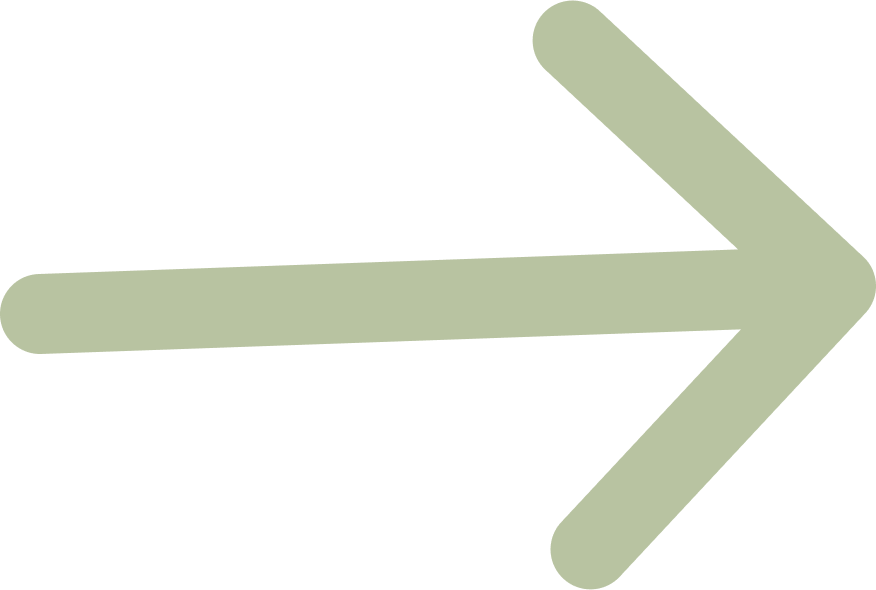
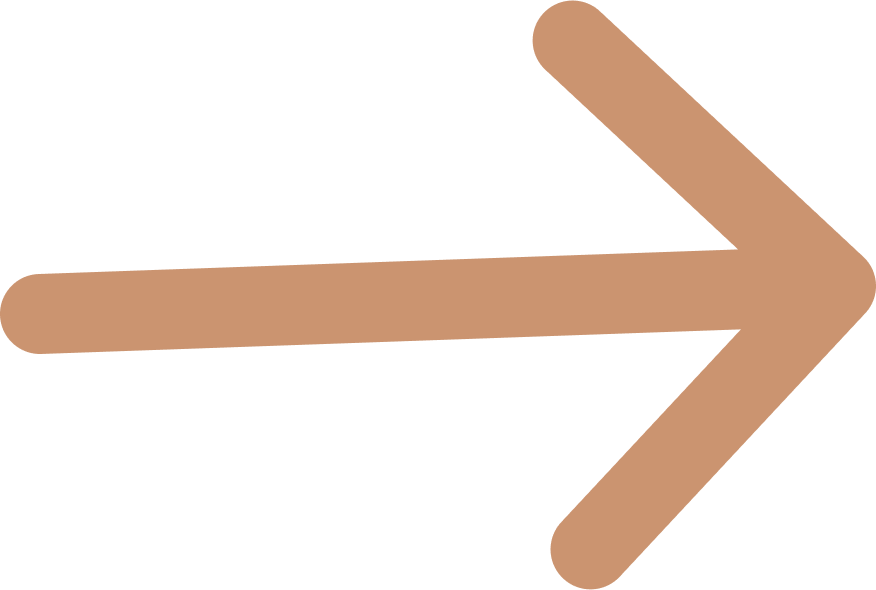
kleur pijl en tekst uxtest dev

Changed region(s): [[0.0, 0.0, 1.0, 1.0]]

diff --git a/iterative.html b/iterative.html
@@ -13,6 +13,7 @@
     <script src="LO-algemeen.js" defer></script>
     <script src="ux.js" defer></script>
     <script src="interactive.js" defer></script>
+    <script src="dev.js" defer></script>
     <!-- <base href="/Portfolio/"> -->
 
 
@@ -121,7 +122,7 @@
                 </div>
             </div>
 
-            <div id="bewijs2" class="hidden" >
+            <div id="bewijs2" class="hidden">
                 <h2>UX project prototype</h2>
                 <p>Voor het UX project heb ik alleen of samen met mijn groepje iteraties van het prototype</p>
                 <h6>Prototype Cognitief (eigen)</h6>
@@ -208,7 +209,7 @@
 
             </div>
 
-            <div id="bewijs3" >
+            <div id="bewijs3" class="hidden">
                 <h2>Portfolio</h2>
                 <p>Ik had gekozen om te gaan werken met de kleur groen. Sinds dat ik deze kleur heel mooi vind en ik
                     vind dat deze kleur het beste bij mij past. Ook vond ik de stijl Cottagecore heel mooi. Deze stijl
@@ -309,7 +310,7 @@
 
 
 
-            <div id="bewijs4" class="hidden">
+            <div id="bewijs4">
                 <h2>Development project</h2>
                 <p>In het vervolg op de eerdere opdracht, het ontwerpen van een interactieve UX-ervaring rond de vijf
                     fysieke stations van Cardan. Onze opdracht is het daadwerkelijk bouwen van deze digitale
@@ -333,20 +334,102 @@
                     <p>Toevoeging van een welkomstscherm en afsluitend scherm. Visuele en inhoudelijke herindeling van
                         uitleg en opdracht.</p>
                 </div>
-                <div class="uxtest">
-                    <h6>UX test</h6>
-                    <p>Nadat we al enkele pagina’s hadden gecodeerd en een klein prototype hadden ontwikkeld, vonden we
-                        het een goed moment om een UX-test uit te voeren. Het volledige rapport is hieronder te vinden:
-                    </p>
-                    <a href="documenten/UXrapport.pdf" target="_blank" class="bijlagebutton">Bijlage</a>
-                </div>
-                <div class="Opleverversie">
-                    <h6>Eindversie</h6>
-                    <p>Na het doorvoeren van de aanpassingen hebben we een voorlopige eindversie ontwikkeld, die we
-                        vervolgens online hebben gezet op een server.</p>
-                    <p class="p">Link naar Live website: (nog niet beschikbaar)</p>
 
+                <div class="cointainer6">
+                    <div class="titel">
+                        <h6>Belangrijkste veranderingen na ux test </h6>
+                        <p>Links staat het oude design en rechts het nieuwe design, onderaan staat de uitleg:</p>
+                    </div>
+                    <div class="carousel6">
+                        <div class="slideswrapper6">
+                            <div class="slides6">
+                                <div class="slide6">
+                                    <div class="img">
+                                        <img class="it" src="images/uxtestdev/devux1.png" />
+                                        <img class="pijl" src="images/uxtestdev/pijl.png" />
+                                        <img class="it" src="images/uxtestdev/devux2.png" />
+                                    </div>
+                                    <div class="tekst">
+                                        <p>De knop “ik heb de oproep gehoord” is niet duidelijk. (Gehoord hoeft niet
+                                            verstaan te zijn) </p>
+                                        <p>De tekst op de button veranderen naar iets minder verwarrend, namelijk verder
+                                        </p>
+                                    </div>
+                                </div>
+                                <div class="slide6">
+                                    <div class="img">
+                                        <img class="it" src="images/uxtestdev/devux3.png" />
+                                        <img class="pijl" src="images/uxtestdev/pijl.png" />
+                                        <img class="it" src="images/uxtestdev/devux4.png" />
+                                    </div>
+                                    <div class="tekst">
+                                        <p>Het doel van de auditieve beperking is nu de vraag goed beantwoorden, maar
+                                            het
+                                            gaat daar om het ervaren</p>
+                                        <p>Bij antwoorden een “geen idee” button toevoegen. Bij fout antwoord feedback
+                                            een
+                                            “niet opnieuw proberen </p>
+                                    </div>
+                                </div>
+                                <div class="slide6">
+                                    <div class="img">
+                                        <img class="it" src="images/uxtestdev/devux5.png" />
+                                        <img class="pijl" src="images/uxtestdev/pijl.png" />
+                                        <img class="it" src="images/uxtestdev/devux6.png" />
+                                    </div>
+                                    <div class="tekst">
+                                        <p> Vraag van cognitief sluit niet aan bij de doelgroep. </p>
+                                        <p>Veranderen naar een vraag die in het leven van de doelgroep zou kunnen
+                                            voorkomen
+                                        </p>
+                                    </div>
+                                </div>
+                                <div class="slide6">
+                                    <div class="img">
+                                        <img class="it" src="images/uxtestdev/devux7.png" />
+                                        <img class="pijl" src="images/uxtestdev/pijl.png" />
+                                        <img class="it" src="images/uxtestdev/devux8.png" />
+                                    </div>
+                                    <div class="tekst">
+                                        <p>Bij cognitief moeten gebruikers nadenken over wat ze gaan invullen </p>
+                                        <p>Informatie te geven over wat ze in moeten vullen </p>
+                                    </div>
+                                </div>
+                                <div class="slide6">
+                                    <div class="img">
+                                        <img class="it" src="images/uxtestdev/devux9.png" />
+                                        <img class="pijl" src="images/uxtestdev/pijl.png" />
+                                        <img class="it" src="images/uxtestdev/devux10.png" />
+                                    </div>
+                                    <div class="tekst">
+                                        <p>Bij dyslexie simulatie moeilijk te lezen font toevoegen </p>
+                                        <p>Font family toevoegen zoals bijvoorbeeld: Comic Sans </p>
+                                    </div>
+                                </div>
+
+                            </div>
+                            <button class="button6 prev">❮</button>
+                            <button class="button6 next">❯</button>
+                        </div>
+                    </div>
                 </div>
+
+
+                <div class="eind">
+                    <h6>Eindpresentatie</h6>
+                    <p>Als afsluiting hebben we een showcasevideo gemaakt (door Jarvin), waarin de werking van de
+                        website
+                        wordt getoond:</p>
+                    <video width="640" height="360" controls>
+                        <source src="/images/development-showcase.mp4" type="video/mp4">
+                        Je browser ondersteunt het videoveld niet.
+                    </video>
+                </div>
+                <div class="live">
+                    <a href="https://cardan-groep-1.vercel.app/nl" target="_blank" class="bijlagebutton">Bezoek live
+                        website</a>
+                </div>
+
             </div>
         </div>
 

diff --git a/carousel.css b/carousel.css
@@ -366,7 +366,7 @@
     margin: 0;
     background-color: white;
     border-radius: 12px;
-    justify-content: center;
+    justify-content: space-between;
     align-items: center;
     padding: 3rem;
     padding-bottom: 1rem;
@@ -430,4 +430,13 @@
     justify-content: space-between;
     padding-left: 2rem;
     padding-right: 7rem;
+    margin-top: 1rem;
+    border-radius: 8px;
+}
+
+.tekst p {
+    font-weight: 600;
+    background-color: #F6E5DB;
+    padding: 1rem;
+    border-radius: 8px;
 }
